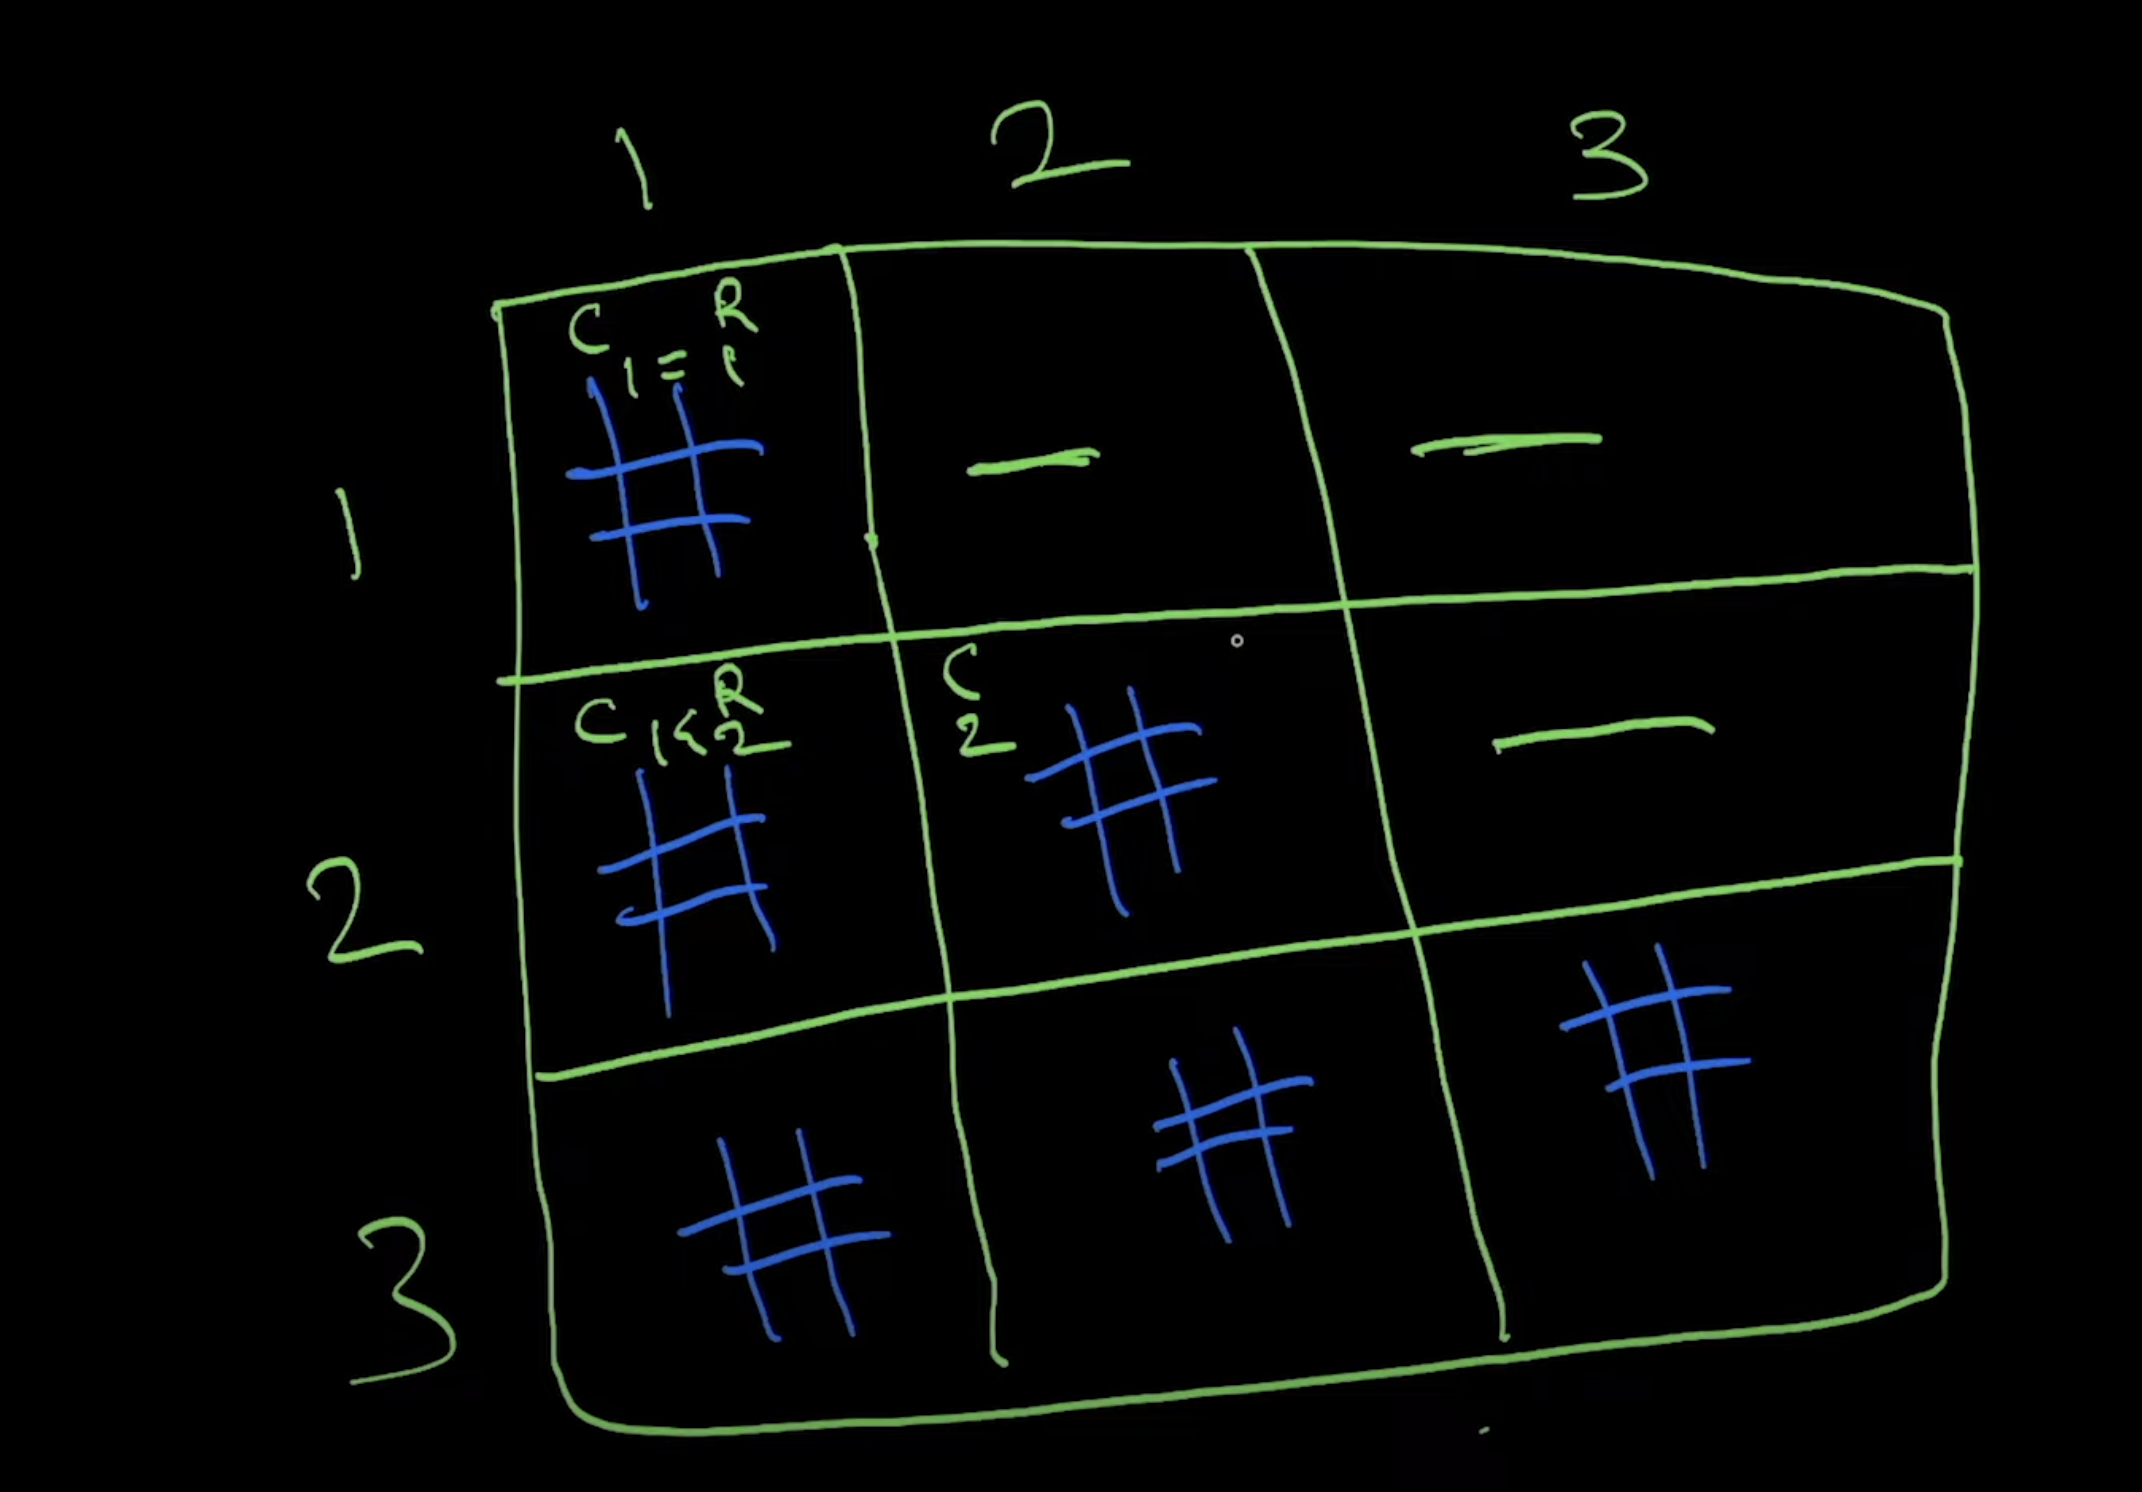
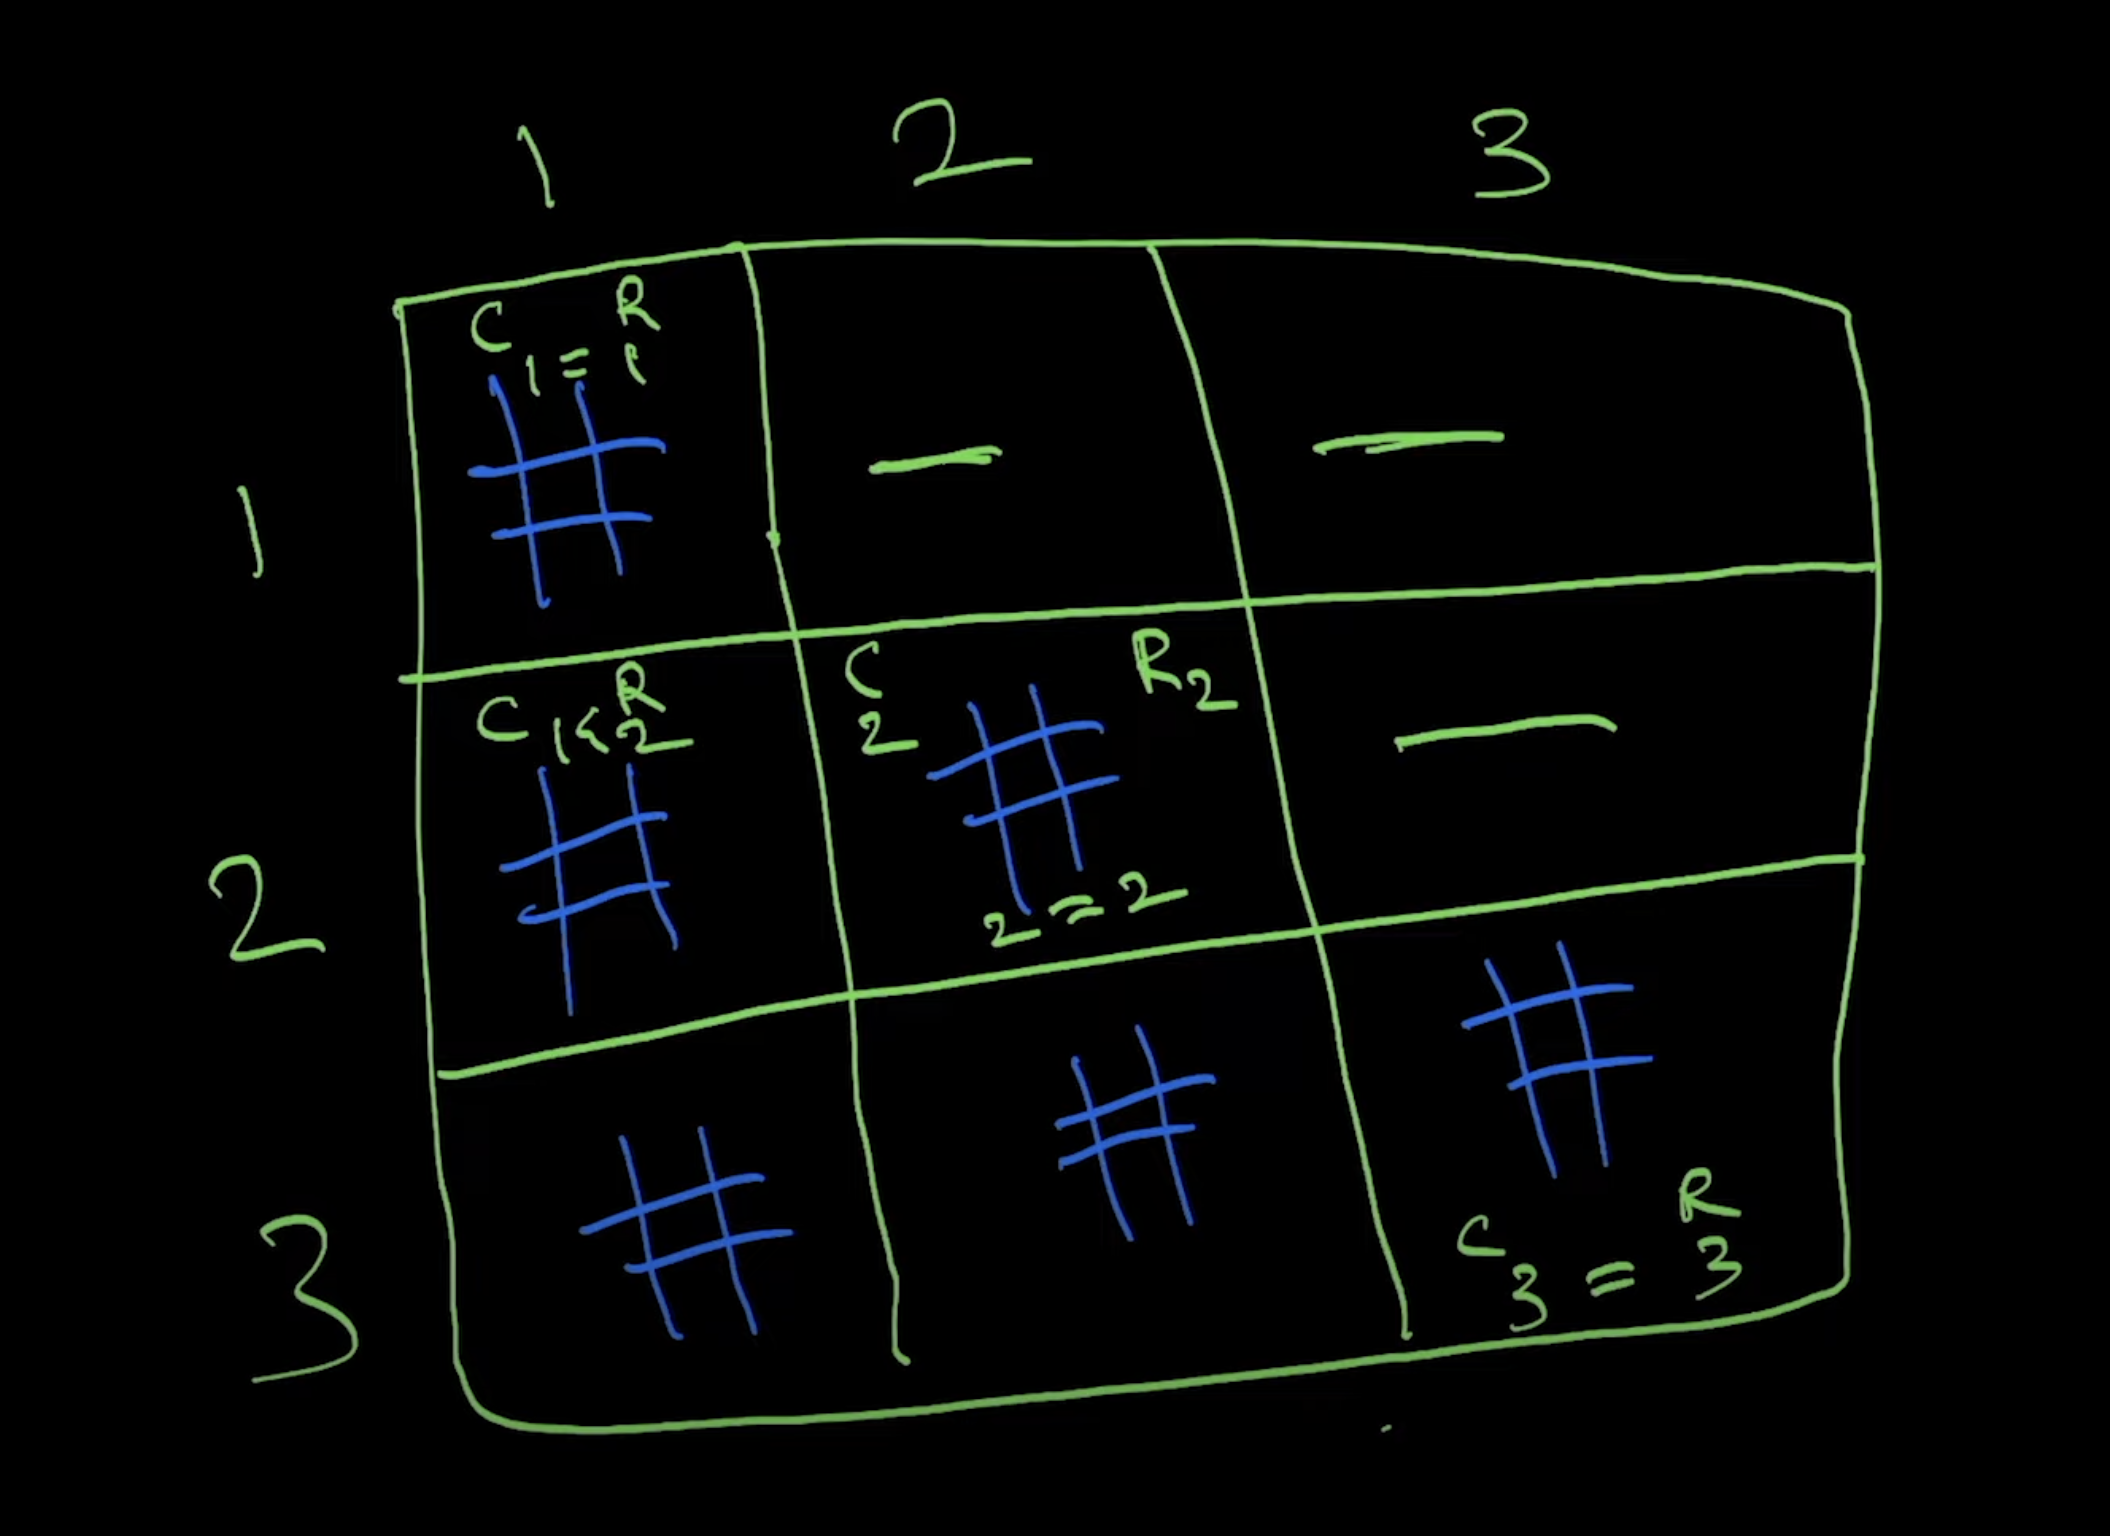
Mise à jour de la logique dans 8-steps-string-pattern.js et ajout d'une image

diff --git a/README.md b/README.md
@@ -10,6 +10,8 @@ https://www.youtube.com/watch?v=ufBbWIyKY2E&t=602s
 
 ---
 
-logic of => 8-steps-string-pattern.js
+logic of what I want in
+
+8-steps-string-pattern.js
 
 ![alt text](image.png)
